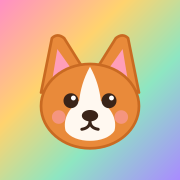
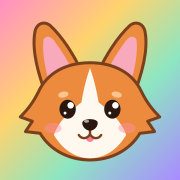
Corgidoku: redraw Cheddar
Proper Pembroke look: big upright ears, fluffy cheeks and chest bib,
eyebrow spots, happy face, stubby legs. New app icon.

Claude-Session: https://claude.ai/code/session_011kt9CZFwyj94wKJoHq4Mx7

Changed region(s): [[0.0833, 0.1111, 0.9167, 0.9167]]

diff --git a/corgidoku/art.js b/corgidoku/art.js
@@ -1,40 +1,64 @@
 // Corgidoku art: Cheddar (a tailless red-and-white Pembroke), paw marks, treats.
 // All inline SVG strings so everything works offline.
 
-const ORANGE = '#E98A3A', ORANGE_DK = '#C96A22', WHITE = '#FFF8F0', INK = '#3A2418', PINK = '#FF9EB8';
+const RED = '#EC8B3E', LINE = '#7A3F1C', CREAM = '#FFF8EE', EYE = '#2A1810', PINK = '#F9A9BC', TONGUE = '#FF7D9C', BROW = '#F8C48F';
 
-// Cheddar's head. Used on the board.
-export function cheddarHead({ blink = false } = {}) {
-  return `<svg viewBox="0 0 100 100" class="corgi" aria-label="corgi">
-  <path d="M14 46 L22 6 Q26 2 31 6 L46 30 Z" fill="${ORANGE}" stroke="${ORANGE_DK}" stroke-width="2" stroke-linejoin="round"/>
-  <path d="M86 46 L78 6 Q74 2 69 6 L54 30 Z" fill="${ORANGE}" stroke="${ORANGE_DK}" stroke-width="2" stroke-linejoin="round"/>
-  <path d="M22 38 L26 14 L38 31 Z" fill="${PINK}"/>
-  <path d="M78 38 L74 14 L62 31 Z" fill="${PINK}"/>
-  <ellipse cx="50" cy="56" rx="36" ry="31" fill="${ORANGE}" stroke="${ORANGE_DK}" stroke-width="2"/>
-  <path d="M50 27 C45 36 43 44 42 52 C34 58 30 66 32 74 C38 84 62 84 68 74 C70 66 66 58 58 52 C57 44 55 36 50 27 Z" fill="${WHITE}"/>
-  ${blink
-    ? `<path d="M31 52 Q36 56 41 52" stroke="${INK}" stroke-width="3" fill="none" stroke-linecap="round"/><path d="M59 52 Q64 56 69 52" stroke="${INK}" stroke-width="3" fill="none" stroke-linecap="round"/>`
-    : `<circle cx="36" cy="52" r="5.5" fill="${INK}"/><circle cx="64" cy="52" r="5.5" fill="${INK}"/><circle cx="37.8" cy="50" r="1.8" fill="#fff"/><circle cx="65.8" cy="50" r="1.8" fill="#fff"/>`}
-  <ellipse cx="50" cy="63" rx="6" ry="4.2" fill="${INK}"/>
-  <path d="M50 67 Q50 72 44 73 M50 67 Q50 72 56 73" stroke="${INK}" stroke-width="2.2" fill="none" stroke-linecap="round"/>
-  <circle cx="27" cy="64" r="5" fill="${PINK}" opacity=".55"/><circle cx="73" cy="64" r="5" fill="${PINK}" opacity=".55"/>
-</svg>`;
+// Ear pieces in head space (200x200). Mirrored for the right ear.
+const earL = `<path d="M50 98 C40 72 32 44 36 22 C38 12 47 9 54 15 C68 28 82 50 90 68 Z" fill="${RED}" stroke="${LINE}" stroke-width="3.5" stroke-linejoin="round"/>
+  <path d="M54 86 C48 66 44 46 46 31 C49 26 54 27 58 32 C67 44 75 57 80 68 Z" fill="${PINK}"/>
+  <path d="M52 88 L55 74 L60 84 L63 70 L68 81 L72 69 L75 80" fill="none" stroke="${CREAM}" stroke-width="4" stroke-linecap="round" stroke-linejoin="round"/>`;
+const mirror = (svg) => `<g transform="translate(200 0) scale(-1 1)">${svg}</g>`;
+
+// Face pieces in head space.
+function face({ blink = false, happy = false } = {}) {
+  const eyes = blink
+    ? `<path d="M64 112 Q74 120 84 112" stroke="${EYE}" stroke-width="4" fill="none" stroke-linecap="round"/><path d="M116 112 Q126 120 136 112" stroke="${EYE}" stroke-width="4" fill="none" stroke-linecap="round"/>`
+    : `<ellipse cx="74" cy="112" rx="9.5" ry="11" fill="${EYE}"/><ellipse cx="126" cy="112" rx="9.5" ry="11" fill="${EYE}"/>
+       <circle cx="77.5" cy="107.5" r="3.8" fill="#fff"/><circle cx="129.5" cy="107.5" r="3.8" fill="#fff"/>
+       <circle cx="71" cy="116.5" r="1.7" fill="#fff"/><circle cx="123" cy="116.5" r="1.7" fill="#fff"/>`;
+  const mouth = happy
+    ? `<path d="M88 141 C90 156 110 156 112 141 Z" fill="${TONGUE}" stroke="${LINE}" stroke-width="2.5" stroke-linejoin="round"/>`
+    : `<path d="M95 144 C95 152 105 152 105 144 Z" fill="${TONGUE}"/>`;
+  return `
+  <path d="M100 64 C95 78 92 92 90 104 C80 112 64 124 58 142 C70 162 86 169 100 169 C114 169 130 162 142 142 C136 124 120 112 110 104 C108 92 105 78 100 64 Z" fill="${CREAM}"/>
+  <ellipse cx="69" cy="95" rx="6" ry="3.5" fill="${BROW}" transform="rotate(-12 69 95)"/>
+  <ellipse cx="131" cy="95" rx="6" ry="3.5" fill="${BROW}" transform="rotate(12 131 95)"/>
+  ${eyes}
+  <ellipse cx="57" cy="134" rx="10" ry="6" fill="#FF8FAB" opacity=".45"/><ellipse cx="143" cy="134" rx="10" ry="6" fill="#FF8FAB" opacity=".45"/>
+  ${mouth}
+  <path d="M100 136 L100 141 M100 141 C97 147 90 147 87 142 M100 141 C103 147 110 147 113 142" stroke="${LINE}" stroke-width="2.8" fill="none" stroke-linecap="round" stroke-linejoin="round"/>
+  <path d="M91 128 C91 122 109 122 109 128 C109 133 104 137 100 137 C96 137 91 133 91 128 Z" fill="${EYE}"/>
+  <ellipse cx="96" cy="126" rx="3" ry="1.8" fill="#fff" opacity=".6"/>`;
 }
 
-// Full Cheddar in a loaf, for the home screen and celebrations.
-export function cheddarLoaf({ hat = '' } = {}) {
-  return `<svg viewBox="0 0 160 140" class="cheddar-loaf" aria-label="Cheddar the corgi">
-  <ellipse cx="80" cy="132" rx="62" ry="7" fill="#000" opacity=".08"/>
-  <path d="M20 112 C18 84 40 72 80 72 C120 72 142 84 140 112 C140 126 124 130 80 130 C36 130 20 126 20 112 Z" fill="${ORANGE}" stroke="${ORANGE_DK}" stroke-width="2.5"/>
-  <path d="M56 80 C60 100 62 116 60 130 L100 130 C98 116 100 100 104 80 Z" fill="${WHITE}"/>
-  <ellipse cx="58" cy="128" rx="14" ry="8" fill="${WHITE}" stroke="#E9D8C8" stroke-width="2"/>
-  <ellipse cx="102" cy="128" rx="14" ry="8" fill="${WHITE}" stroke="#E9D8C8" stroke-width="2"/>
-  <g transform="translate(30 0)">${cheddarHead().replace('<svg viewBox="0 0 100 100" class="corgi" aria-label="corgi">', '<svg x="0" y="0" width="100" height="100" viewBox="0 0 100 100">')}</g>
+const headShape = `<path d="M100 58 C128 58 150 70 160 92 C166 104 172 112 181 121 L167 126 L175 138 L158 140 C146 160 124 171 100 171 C76 171 54 160 42 140 L25 138 L33 126 L19 121 C28 112 34 104 40 92 C50 70 72 58 100 58 Z" fill="${RED}" stroke="${LINE}" stroke-width="3.5" stroke-linejoin="round"/>`;
+
+const headGroup = (opts) => `${earL}${mirror(earL)}${headShape}${face(opts)}`;
+
+// Cheddar's head. Used on the board and as the little helper face.
+export function cheddarHead(opts = {}) {
+  return `<svg viewBox="12 6 176 172" class="corgi" aria-label="corgi">${headGroup(opts)}</svg>`;
+}
+
+// Full Cheddar sitting, for the home screen and celebrations.
+export function cheddarLoaf({ hat = '', happy = true } = {}) {
+  return `<svg viewBox="4 4 192 250" class="cheddar-loaf" aria-label="Cheddar the corgi">
+  <ellipse cx="100" cy="244" rx="80" ry="8" fill="#5B2A6E" opacity=".10"/>
+  <ellipse cx="44" cy="214" rx="32" ry="26" fill="${RED}" stroke="${LINE}" stroke-width="3.5"/>
+  <ellipse cx="156" cy="214" rx="32" ry="26" fill="${RED}" stroke="${LINE}" stroke-width="3.5"/>
+  <ellipse cx="30" cy="236" rx="18" ry="9" fill="${CREAM}" stroke="${LINE}" stroke-width="3"/>
+  <ellipse cx="170" cy="236" rx="18" ry="9" fill="${CREAM}" stroke="${LINE}" stroke-width="3"/>
+  <path d="M60 150 C42 172 44 220 58 238 L142 238 C156 220 158 172 140 150 Z" fill="${RED}" stroke="${LINE}" stroke-width="3.5" stroke-linejoin="round"/>
+  <path d="M68 152 L62 170 L73 167 L67 186 L79 182 L77 202 C86 218 114 218 123 202 L121 182 L133 186 L127 167 L138 170 L132 152 Z" fill="${CREAM}"/>
+  <path d="M70 200 C70 192 92 192 92 200 L92 232 C92 240 70 240 70 232 Z" fill="${CREAM}" stroke="${LINE}" stroke-width="3"/>
+  <path d="M108 200 C108 192 130 192 130 200 L130 232 C130 240 108 240 108 232 Z" fill="${CREAM}" stroke="${LINE}" stroke-width="3"/>
+  <path d="M77 231 L77 237 M85 231 L85 237 M115 231 L115 237 M123 231 L123 237" stroke="${LINE}" stroke-width="2.4" stroke-linecap="round"/>
+  ${headGroup({ happy })}
   ${hat}
 </svg>`;
 }
 
-export const partyHat = `<g transform="translate(66 -6) rotate(12)"><path d="M14 30 L26 0 L38 30 Z" fill="#FF6FB5" stroke="#C93F86" stroke-width="2"/><circle cx="26" cy="0" r="5" fill="#FFE870"/><path d="M18 21 L34 21 M21 13 L31 13" stroke="#FFE870" stroke-width="3"/></g>`;
+export const partyHat = `<g transform="translate(118 2) rotate(18)"><path d="M0 52 L22 0 L44 52 Z" fill="#FF6FB5" stroke="#C93F86" stroke-width="3" stroke-linejoin="round"/><circle cx="22" cy="0" r="8" fill="#FFE870" stroke="#E0B92E" stroke-width="2"/><path d="M9 36 L35 36 M14 22 L30 22" stroke="#FFE870" stroke-width="5" stroke-linecap="round"/></g>`;
 
 export function paw(auto = false) {
   return `<svg viewBox="0 0 40 40" class="paw${auto ? ' auto' : ''}" aria-label="paw mark">

diff --git a/corgidoku/index.html b/corgidoku/index.html
@@ -38,7 +38,7 @@
     -webkit-background-clip:text;background-clip:text;color:transparent;animation:shimmer 6s linear infinite}
   @keyframes shimmer{to{background-position:200% 0}}
   .subtitle{color:var(--ink-soft);font-weight:700;margin-top:2px}
-  .hero{width:190px;margin:10px 0 2px;animation:bob 3s ease-in-out infinite}
+  .hero{width:170px;margin:10px 0 2px;animation:bob 3s ease-in-out infinite}
   @keyframes bob{50%{transform:translateY(-6px)}}
   .banner{width:100%;max-width:440px;border-radius:20px;padding:12px 16px;margin:6px 0 4px;font-weight:800;text-align:center;
     background:linear-gradient(90deg,#FFE0F0,#E9DDFF,#D9F3FF);border:2px solid #fff;box-shadow:0 4px 14px rgba(155,107,255,.18)}

diff --git a/corgidoku/sw.js b/corgidoku/sw.js
@@ -1,6 +1,6 @@
 // Offline support. Network first, so a fresh push shows up right away;
 // the cache is only used when there's no connection.
-const CACHE = 'corgidoku-v1';
+const CACHE = 'corgidoku-v2';
 const FILES = ['./', 'index.html', 'app.js', 'engine.js', 'art.js', 'puzzles.json', 'manifest.webmanifest', 'apple-touch-icon.png'];
 self.addEventListener('install', (e) => {
   e.waitUntil(caches.open(CACHE).then((c) => c.addAll(FILES)).then(() => self.skipWaiting()));
